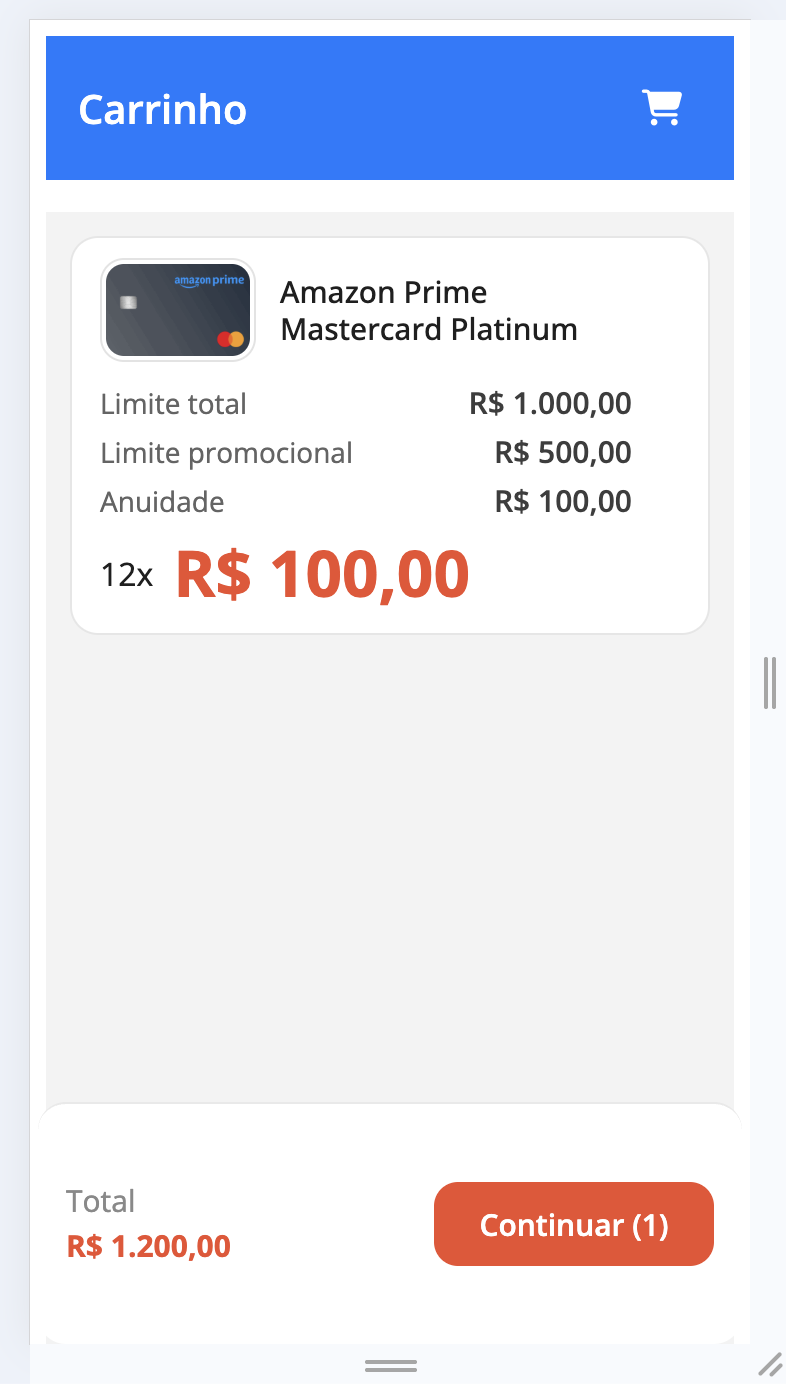
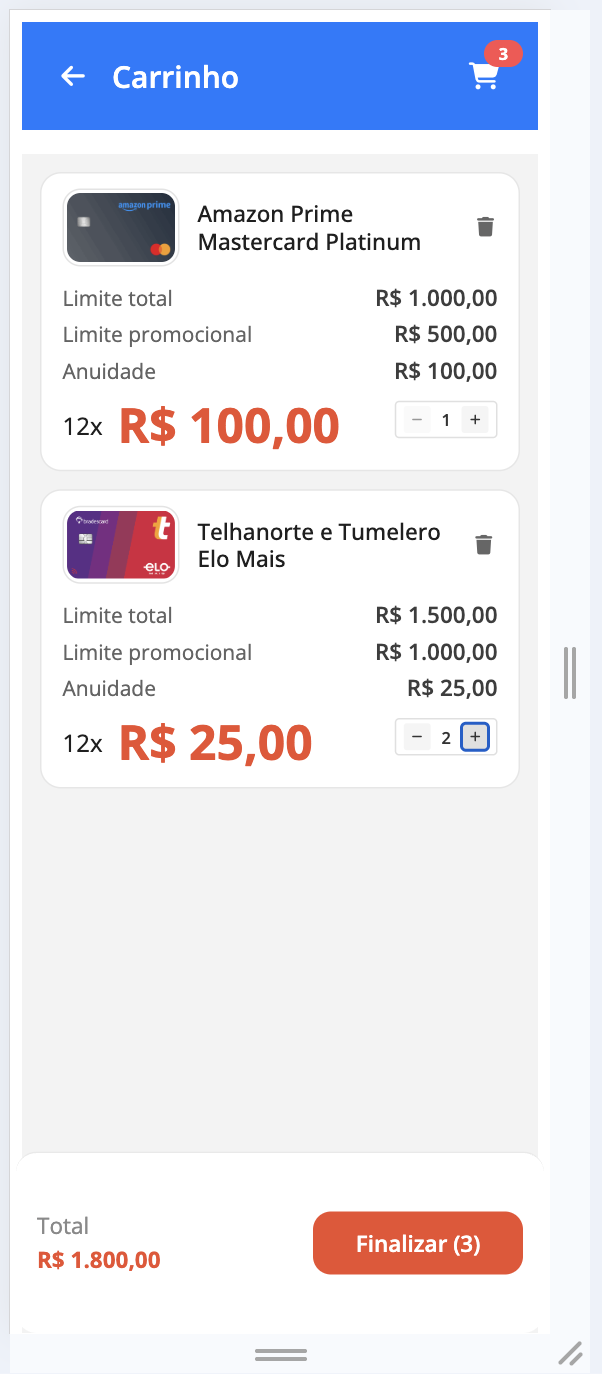
fix: atualizacao da readme

diff --git a/README.md b/README.md
@@ -1,3 +1,27 @@
+[![Netlify Status](https://api.netlify.com/api/v1/badges/05db2d45-2c54-48e9-a975-61c668792096/deploy-status)](https://app.netlify.com/sites/planer-future/deploys)
+
+<h1 align="center">
+  Monolito Cartoes
+</h1>
+<p align="center">
+  Aplicacao web de aquisicao de cartoes desenvolvida em Angular, com arquitetura monolitica.
+</p>
+<p align="center">
+   <a href="http://localhost:4200" target="_blank">Demo local</a>.
+</p>
+<p align="center">
+  <img alt="GitHub repo size" src="https://img.shields.io/github/repo-size/Alessandra-Nastassja/monolito-cartoes?color=%231f332c">
+  <a href="https://github.com/Alessandra-Nastassja/monolito-cartoes/commits/main">
+    <img alt="GitHub last commit" src="https://img.shields.io/github/last-commit/Alessandra-Nastassja/monolito-cartoes?color=%231f332c">
+  </a>
+  <a href="https://www.linkedin.com/in/alessandra-nastassja/">
+    <img alt="Made by Alessandra Nastassja" src="https://img.shields.io/badge/made%20by-AlessandraNastassja-%231f332c">
+  </a>
+</p>
+<p align="center">
+  <img alt="Demo da aplicacao" src="public/carrinho.png" width="220px">
+</p>
+
 # Monolito - Aplicacao de Aquisicao de Cartoes
 
 Repositorio contendo a implementacao de uma aplicacao web desenvolvida em arquitetura monolitica, como parte do Trabalho de Conclusao de Curso (TCC) em Engenharia de Software.
@@ -23,9 +47,9 @@ A aplicacao segue o modelo de arquitetura monolitica, estruturada em um unico pr
 #### **Core** (`src/app/core/`)
 Camada responsavel pela logica de negocio e acesso a dados:
 - **Models**: Definicoes de interfaces (`Cartao`, `ItemCarrinho`, `LojaCarrinho`)
-- **Services**: 
+- **Services**:
   - `ListaCartoes` - Busca e filtro de cartoes disponiveis
-  - `CarrinhoState` - Gerenciamento do estado do carrinho
+  - `CarrinhoState` - Gerenciamento do estado do carrinho (Signals)
 - **Data**: Mock database (`db.json`) com dados de cartoes
 
 #### **Features** (`src/app/features/`)
@@ -39,27 +63,32 @@ Modulos de funcionalidades especificas:
 
 **Carrinho** (`carrinho/`)
 - Visualizacao de itens selecionados
-- Componente `LojaCarrinhoCard` para renderizacao de lojas
-- Calculo automatico de totais
-- Persistencia de carrinho
+- Componente `LojaCarrinhoCard` para renderizacao de itens
+- Contador de quantidade por item (`+` e `-`)
+- Remocao de item por icone de lixeira
+- Calculo automatico de totais e quantidade
 
 #### **Shared** (`src/app/shared/`)
 Componentes e utilitarios reutilizaveis:
+- **Header** - Topo compartilhado com titulo dinamico, badge e voltar
 - **Loading** - Componente com animacao de carregamento
 - **Modal** - Componente generico para dialogos
+- **Quantity Selector** - Controle de quantidade reutilizavel
 
 ## Funcionalidades
 
 A aplicacao simula um sistema de aquisicao de cartoes com:
 
-- Listagem paginada de cartoes disponiveis com loading state
+- Listagem de cartoes disponiveis com loading state
 - Selecao e adicao de cartoes ao carrinho
-- Modal de confirmacao com detalhes completos do cartao
-- Visualizacao do carrinho com itens selecionados agrupados por loja
-- Calculo automatico de totais e quantidade de itens
+- Modal de confirmacao com detalhes do cartao
+- Visualizacao do carrinho com itens selecionados
+- Ajuste de quantidade por item no carrinho
+- Remocao de item por lixeira
+- Calculo automatico de total e quantidade
 - Formatacao monetaria em BRL com Intl.NumberFormat
-- Navegacao entre telas (home → carrinho → checkout)
-- Roteamento lazy-loaded para optimal performance
+- Navegacao entre telas (`home` e `carrinho`)
+- Roteamento lazy-loaded
 - Tipagem forte com TypeScript
 - Componentes standalone (Angular 21)
 
@@ -73,90 +102,52 @@ A aplicacao simula um sistema de aquisicao de cartoes com:
 | RxJS | ~7.8 | Programacao reativa |
 | Node.js | 20+ | Runtime JavaScript |
 | pnpm | 10+ | Gerenciador de pacotes |
-| json-server | - | Mock de API REST local |
+| json-server | 1.0.0-beta.15 | Mock de API REST local |
 | Vitest | ^4.0 | Testes unitarios |
 | Express | ^5.1 | Server-side rendering |
 
-
-
 ## Estrutura do Projeto
 
-```
+```text
 monolito-cartoes/
 ├── src/
 │   ├── app/
-│   │   ├── app.ts                          # Componente raiz
-│   │   ├── app.html                        # Template raiz
-│   │   ├── app.scss                        # Estilos globais
-│   │   ├── app.config.ts                   # Configuracao da app
-│   │   ├── app.routes.ts                   # Roteamento principal
-│   │   │
-│   │   ├── core/                           # Camada de negocio
+│   │   ├── app.ts
+│   │   ├── app.html
+│   │   ├── app.scss
+│   │   ├── app.config.ts
+│   │   ├── app.routes.ts
+│   │   ├── core/
 │   │   │   ├── models/
-│   │   │   │   └── cartao.model.ts         # Interface Cartao
+│   │   │   │   └── cartao.model.ts
 │   │   │   ├── services/
 │   │   │   │   ├── lista-cartoes/
-│   │   │   │   │   ├── lista-cartoes.ts
-│   │   │   │   │   └── lista-cartoes.spec.ts
 │   │   │   │   └── carrinho-state/
-│   │   │   │       └── carrinho-state.ts   # Gerenciamento de estado
 │   │   │   └── data/
-│   │   │       └── db.json                 # Mock data
-│   │   │
-│   │   ├── features/                       # Funcionalidades
+│   │   │       └── db.json
+│   │   ├── features/
 │   │   │   ├── cartoes/
-│   │   │   │   ├── cartoes.ts              # Componente principal
-│   │   │   │   ├── cartoes.html
-│   │   │   │   ├── cartoes.scss
-│   │   │   │   ├── cartoes.spec.ts
-│   │   │   │   ├── cartoes-module.ts
-│   │   │   │   └── components/
-│   │   │   │       └── card-cartao/        # Card individual
-│   │   │   │           ├── card-cartao.ts
-│   │   │   │           ├── card-cartao.html
-│   │   │   │           ├── card-cartao.scss
-│   │   │   │           └── card-cartao.spec.ts
-│   │   │   │
 │   │   │   └── carrinho/
-│   │   │       ├── carrinho.ts             # Componente carrinho
-│   │   │       ├── carrinho.html
-│   │   │       ├── carrinho.scss
-│   │   │       ├── carrinho.spec.ts
-│   │   │       ├── carrinho.model.ts       # Tipos carrinho
-│   │   │       ├── carrinho-module.ts
 │   │   │       └── components/
-│   │   │           └── loja-carrinho-card/ # Card de loja
-│   │   │               ├── loja-carrinho-card.ts
-│   │   │               ├── loja-carrinho-card.html
-│   │   │               ├── loja-carrinho-card.scss
-│   │   │               └── loja-carrinho-card.module.ts
-│   │   │
-│   │   └── shared/                         # Componentes compartilhados
+│   │   │           └── loja-carrinho-card/
+│   │   └── shared/
 │   │       └── components/
+│   │           ├── header/
 │   │           ├── loading/
-│   │           │   ├── loading.ts
-│   │           │   ├── loading.html
-│   │           │   └── loading.scss
-│   │           └── modal/
-│   │               ├── modal.ts
-│   │               ├── modal.html
-│   │               └── modal.scss
-│   │
-│   ├── main.ts                             # Entry point
-│   ├── main.server.ts                      # SSR entry point
-│   ├── server.ts                           # Express server
-│   └── styles.scss                         # Styles globais
-│
-├── public/                                 # Assets estaticos
-│   └── *.png                               # Screenshots
-│
-├── angular.json                            # Configuracao Angular CLI
-├── package.json                            # Dependencias e scripts
-├── tsconfig.json                           # Configuracao TypeScript
-├── tsconfig.app.json                       # Config TypeScript app
-├── tsconfig.spec.json                      # Config TypeScript tests
-├── pnpm-lock.yaml                          # Lock de dependencias
-└── README.md                               # Este arquivo
+│   │           ├── modal/
+│   │           └── quantity-selector/
+│   ├── main.ts
+│   ├── main.server.ts
+│   ├── server.ts
+│   └── styles.scss
+├── public/
+├── angular.json
+├── package.json
+├── tsconfig.json
+├── tsconfig.app.json
+├── tsconfig.spec.json
+├── pnpm-lock.yaml
+└── README.md
 ```
 
 ## Como Executar o Projeto
@@ -195,12 +186,6 @@ pnpm build
 
 Gera a build otimizada em `dist/monolito-cartoes/`
 
-### Server-Side Rendering
-
-```bash
-pnpm start:ssr
-```
-
 ### Testes
 
 Executar testes unitarios:
@@ -208,157 +193,41 @@ Executar testes unitarios:
 pnpm test
 ```
 
-**Arquivos de teste:**
-- `app.spec.ts` - Testes do componente raiz
-- `lista-cartoes.spec.ts` - Testes do servico
-- `cartoes.spec.ts` - Testes do componente cartoes
-- `carrinho.spec.ts` - Testes do componente carrinho
-- `card-cartao.spec.ts` - Testes do card
-
 ## Scripts Disponiveis
 
 | Script | Descricao |
 |--------|-----------|
 | `pnpm start` | Sobe servidor de desenvolvimento |
+| `pnpm dev` | Sobe frontend + json-server |
 | `pnpm build` | Gera build de producao |
 | `pnpm watch` | Build em modo observacao |
-
-
-## Fluxo de Dados
-
-```
-┌─────────────────────────────────────────────────────────────┐
-│                     App (Root Component)                     │
-│                  Gerencia navegacao global                   │
-└────────────────────────┬────────────────────────────────────┘
-                         │
-            ┌────────────┴────────────┐
-            ▼                         ▼
-      ┌──────────────┐         ┌──────────────┐
-      │ Cartoes      │         │ Carrinho     │
-      │ (home)       │         │ (details)    │
-      └────────┬─────┘         └────┬─────────┘
-               │                    │
-               ▼                    ▼
-        ┌─────────────┐      ┌─────────────┐
-        │CardCartao   │      │LojaCarrinho │
-        │Component    │      │ Card Componet
-        └──────┬──────┘      └─────────────┘
-               │
-         ┌─────┴──────┐
-         ▼            ▼
-    ┌────────┐  ┌─────────┐
-    │ Modal  │  │ Loading │
-    │Shared  │  │ Shared  │
-    └────────┘  └─────────┘
-
-SERVICES:
-  ┌──────────────────────────────────────┐
-  │ ListaCartoes (Core Service)          │
-  │ - Busca de cartoes                   │
-  │ - Filtros e paginacao                │
-  └──────────────────────────────────────┘
-  
-  ┌──────────────────────────────────────┐
-  │ CarrinhoState (Core Service)         │
-  │ - Gerenciamento de estado            │
-  │ - Calculo de totais                  │
-  └──────────────────────────────────────┘
-```
-
-## Componentes Principais
-
-### Cartoes Feature
-
-**`Cartoes` (Container)**
-- Responsavel por buscar e listar cartoes
-- Gerencia loading state
-- Usa servico `ListaCartoes`
-
-**`CardCartao` (Presentational)**
-- Exibe um cartao individual
-- Modal de confirmacao integrado
-- Formatacao de valores monetarios
-
-### Carrinho Feature
-
-**`Carrinho` (Container)**
-- Busca dados do carrinho pela rota
-- Calcula totais e quantidade de itens
-- Renderiza lista de lojas
-
-**`LojaCarrinhoCard` (Presentational)**
-- Exibe loja com seus itens
-- Renderiza grid de produtos
-- Calcula subtotais
-
-### Shared Components
-
-**`Loading`**
-- Animacao de carregamento reutilizavel
-- Customizavel com mensagem
-
-**`Modal`**
-- Dialogo generico reutilizavel
-- Slots para conteudo customizado
-- Controle de abertura/fechamento
+| `pnpm test` | Executa testes |
 
 ## Roteamento
 
-A aplicacao usa roteamento lazy-loaded para otimizar o bundle:
-
 ```typescript
-path: 'home'              → Cartoes (lazy-loaded)
-path: 'carrinho'          → Carrinho vazio
-path: 'carrinho/:id'      → Carrinho com items do cartao selecionado
-path: ''                  → Redirect para 'home'
+path: 'home'              -> Cartoes (lazy-loaded)
+path: 'carrinho'          -> Carrinho vazio
+path: 'carrinho/:id'      -> Carrinho com item selecionado
+path: ''                  -> Redirect para 'home'
 ```
 
 ## Dados Mock
 
 **API Local (json-server):**
-```
+```text
 GET /cartoes       - Lista de cartoes disponiveis
 GET /cartoes/:id   - Cartao especifico
 ```
 
-**Estrutura Cartao:**
-```typescript
-{
-  id: string;
-  nome: string;
-  img: string;
-  limiteTotal: number;
-  limitePromocional: number;
-  anuidade: number;
-}
-```
-
 ## Padroes Utilizados
 
-- **Signals** - State management moderno do Angular
-- **Services** - Separacao de responsabilidades
-- **Standalone Components** - Componentes modernos sem NgModule
-- **Lazy Loading** - Carregamento sob demanda de features
-- **Strong Typing** - TypeScript com tipos explicitos
-- **Reactive Programming** - RxJS para operacoes assincronas
-- **Feature-Based Organization** - Estrutura por funcionalidade
-- **DRY** - Componentes reutilizaveis (Card, Modal, Loading)
-
-## Testes
-
-A aplicacao inclui testes unitarios com Vitest:
-
-```bash
-# Executar todos os testes
-pnpm test
-
-# Modo watch
-pnpm test --watch
-
-# Com coverage
-pnpm test --coverage
-```
+- Signals para state management
+- Services para separacao de responsabilidades
+- Standalone Components
+- Lazy Loading
+- TypeScript com tipagem forte
+- Organizacao por feature
 
 ## Telas
 
@@ -374,8 +243,6 @@ Este projeto compoe o estudo comparativo entre abordagens arquiteturais no front
 
 - **Monolito** (este repositorio) - Aplicacao unica
 - **Micro Front-ends** (repositorio comparativo) - Multiplas aplicacoes
-
-O foco da analise e avaliar o impacto em manutencao, evolucao e organizacao do codigo ao longo do desenvolvimento.
 
 ## Versao
 
